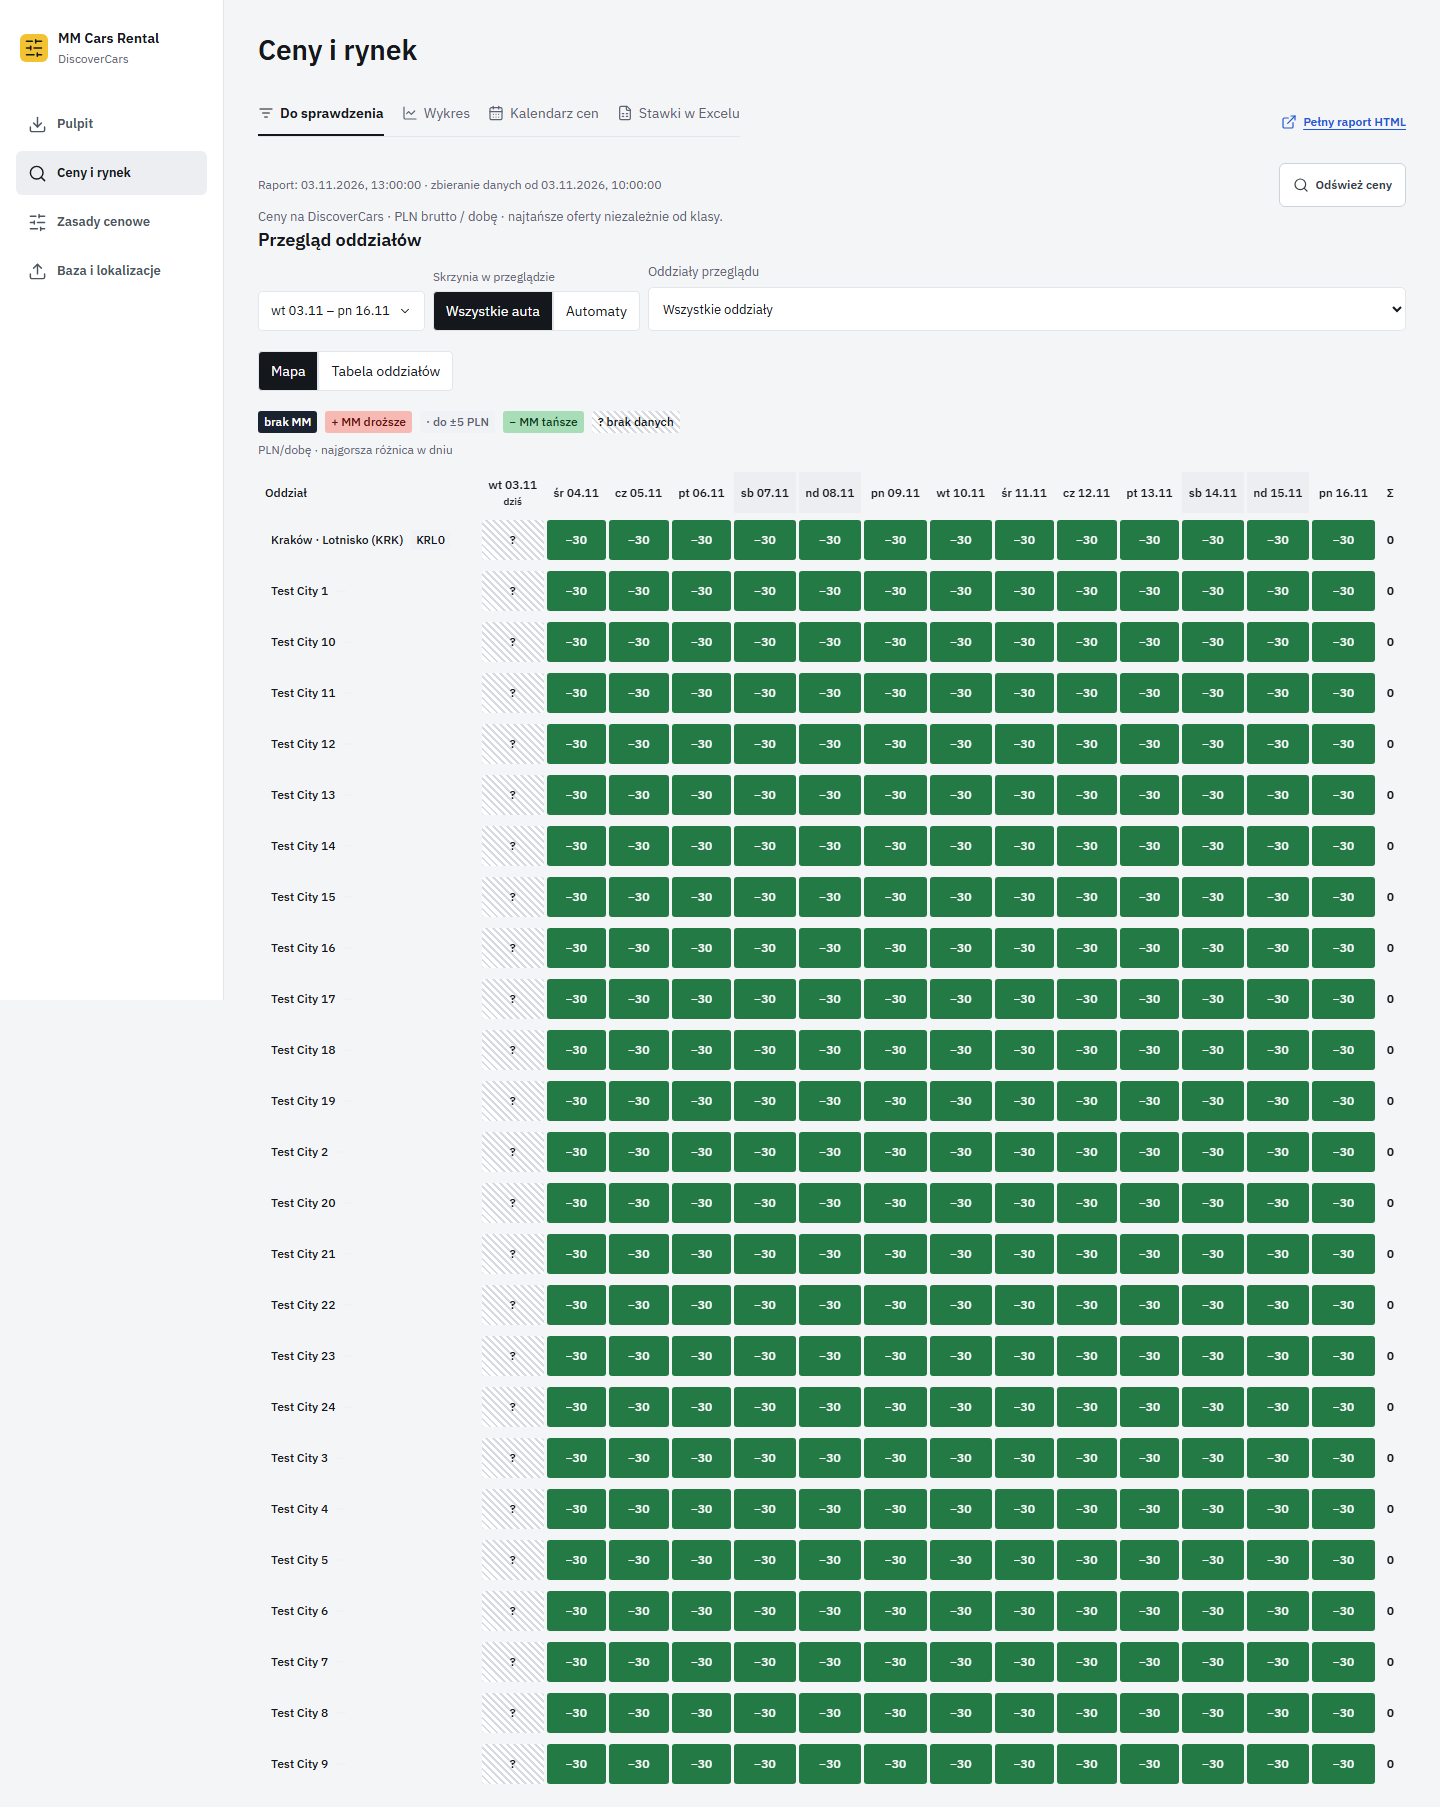
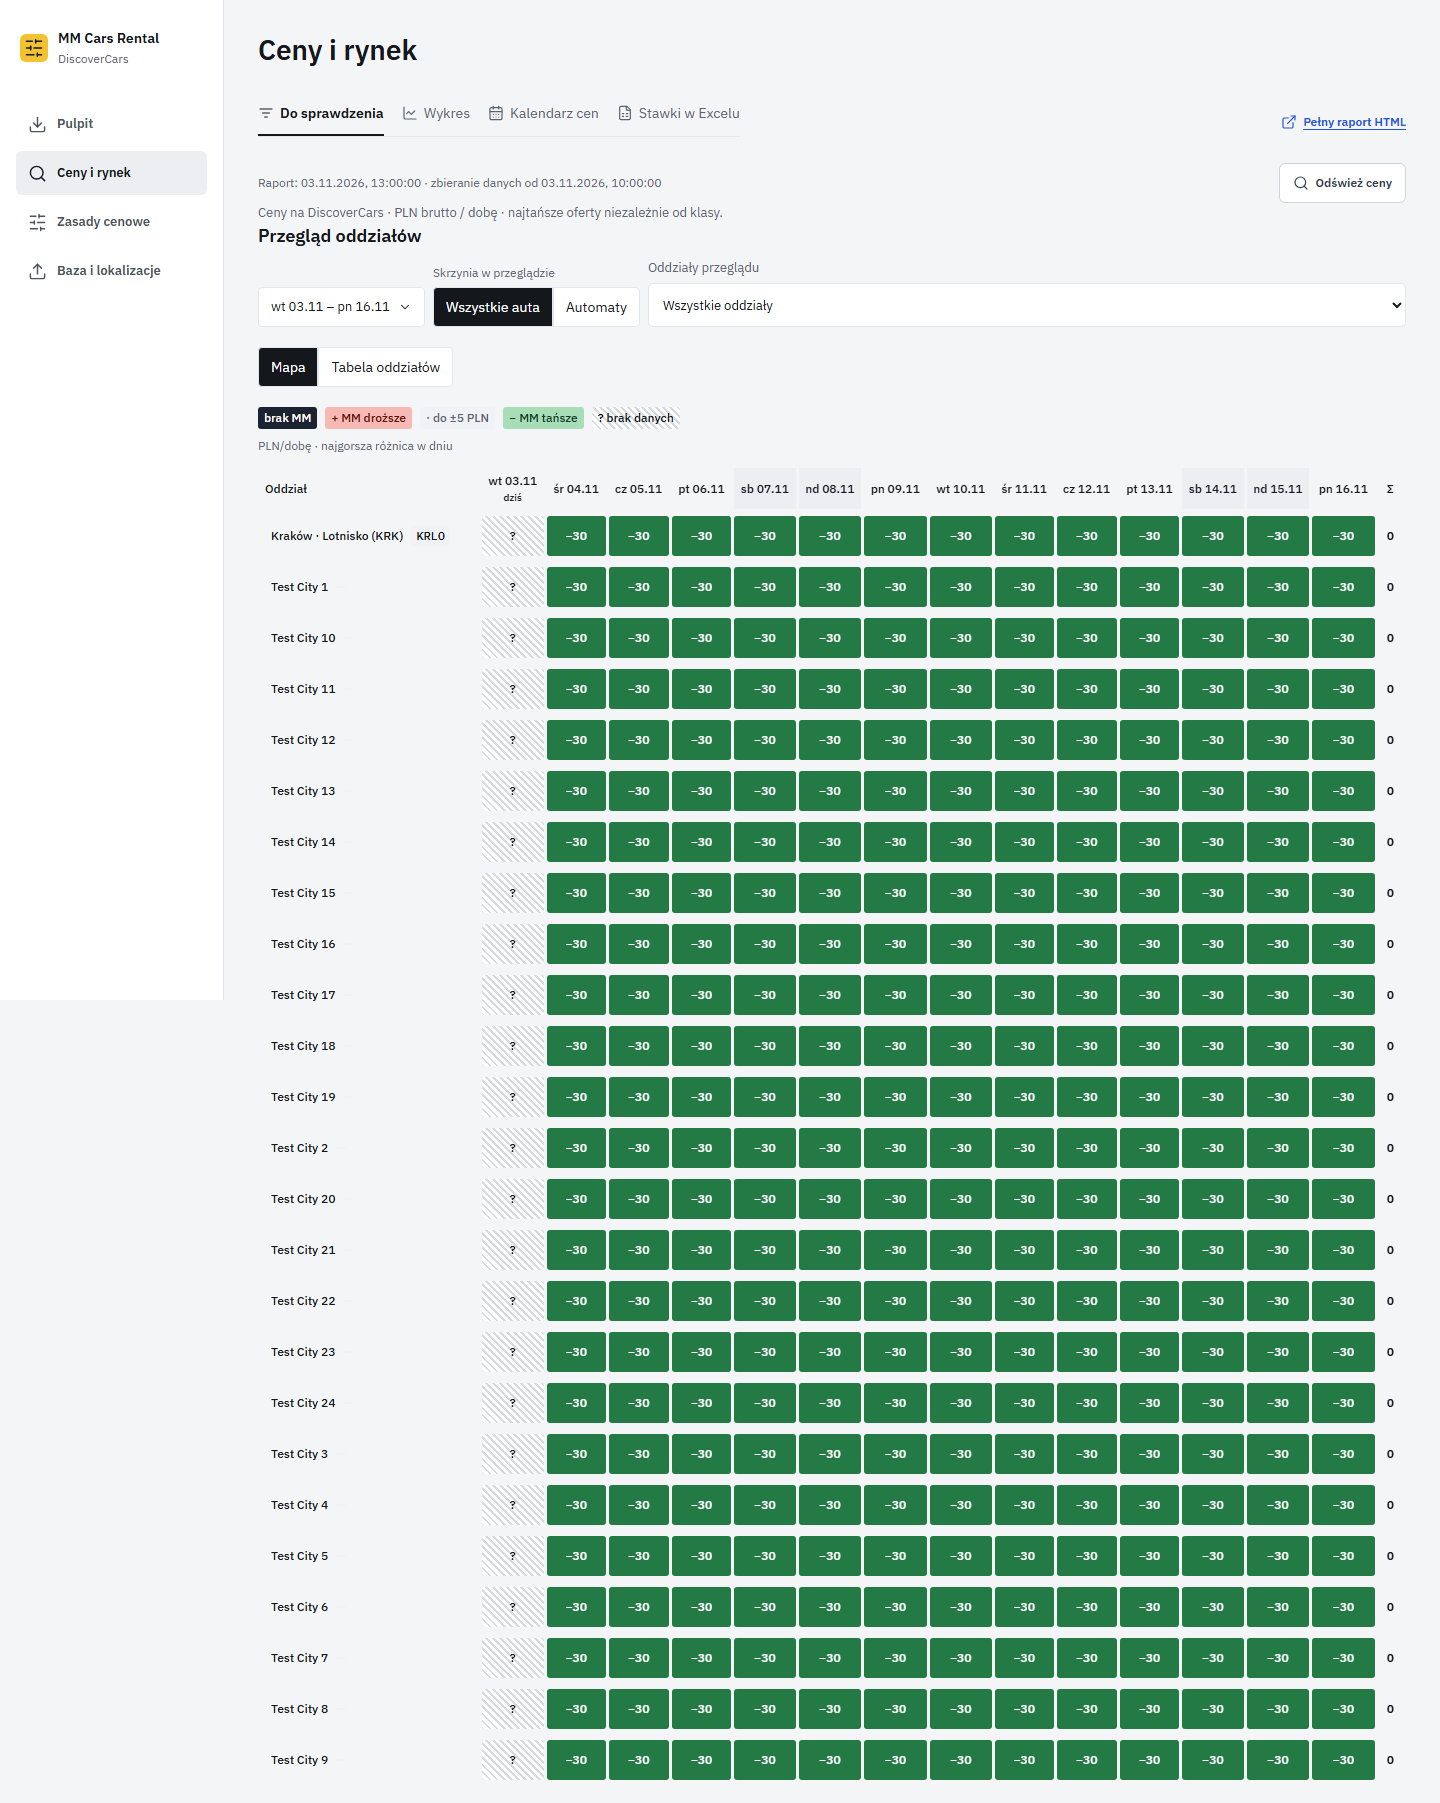
ui(stage 4): show calendar gaps in PLN and multi-select rental lengths

diff --git a/rules-panel/src/MarketWorkspace.jsx b/rules-panel/src/MarketWorkspace.jsx
@@ -1,5 +1,7 @@
 import React, { useCallback, useEffect, useMemo, useRef, useState } from 'react';
 import { CalendarDays, ChartLine, ChevronLeft, ChevronRight, ExternalLink, FileSpreadsheet, ListFilter, Search } from 'lucide-react';
+import {PriceCalendar,DurationChips} from './PriceCalendar.jsx';
+import {monthLabel} from './visual-format.mjs';
 import {ViewTabs} from './ViewTabs.jsx';
 import { MarketDetail } from './MarketDetail.jsx';
 import { AttentionView } from './AttentionView.jsx';
@@ -64,16 +66,16 @@ export function MarketWorkspace({model,workspace,service,calendar,market,request
       <div hidden={view!=='attention'||!data}><AttentionView onRules={onRules} onExcel={openExcel} calendar={calendar} model={model} workspace={workspace} service={service} key={request?.id??"default"} request={request} data={data} onSelect={selectRow} selected={selected}/></div>
       {data&&<>
         <div hidden={view==='attention'} className="market-filters chart-filters"><label>Oddziały<select value={kind} onChange={e=>{setKind(e.target.value);setLocation('*');}}><option value="airport">Lotniska</option><option value="all">Wszystkie oddziały</option><option value="branch">Poza lotniskami</option></select></label><label>Lokalizacja rynku<select value={location} onChange={e=>setLocation(e.target.value)}><option value="*">Wszystkie lokalizacje</option>{locations.map(l=><option key={l} value={l}>{locationLabel(l)}</option>)}</select></label><label>Skrzynia<select value={transmission} onChange={e=>setTransmission(e.target.value)}><option value="all">Wszystkie auta</option><option value="automatic">Tylko automaty</option></select></label>
-        <details className="duration-select"><summary>Długość najmu: {durations.length?durations.join(', '):'brak'} dni</summary><fieldset><legend>Długości najmu</legend>{Array.from({length:13},(_,i)=>i+2).map(d=><label key={d}><input type="checkbox" checked={durations.includes(d)} onChange={e=>setDurations(old=>e.target.checked?[...old,d].sort((a,b)=>a-b):old.filter(n=>n!==d))}/>{d} dni</label>)}</fieldset></details>
+        {view==='calendar'?<DurationChips values={durations} onChange={setDurations}/>:<details className="duration-select"><summary>Długość najmu: {durations.length?durations.join(', '):'brak'} dni</summary><fieldset><legend>Długości najmu</legend>{Array.from({length:13},(_,i)=>i+2).map(d=><label key={d}><input type="checkbox" checked={durations.includes(d)} onChange={e=>setDurations(old=>e.target.checked?[...old,d].sort((a,b)=>a-b):old.filter(n=>n!==d))}/>{d} dni</label>)}</fieldset></details>}
         <label>Start od<input type="date" value={from} onChange={e=>{setFrom(e.target.value);if(validDate(e.target.value))setMonth(e.target.value.slice(0,7));}}/></label><label>Start do<input type="date" value={to} onChange={e=>setTo(e.target.value)}/></label></div>
         <div hidden={view==='attention'} className="market-range" role="group" aria-label="Zakres dat">{[7,14,30,0].map(n=><button key={n} className="text-button" onClick={()=>preset(n)}>{n?`${n} dni`:'Cały raport'}</button>)}</div>
         {!rangeValid&&<p className="alert error">Wybierz prawidłowy zakres dat, nie dłuższy niż rok.</p>}
         {!durations.length&&<p className="alert">Wybierz co najmniej jedną długość najmu.</p>}
         <div hidden={view==='attention'} className="market-counts"><span><strong>{rows.length}</strong> sprawdzeń w filtrze</span><span>Top1: <strong>{rows.filter(r=>r.rank===1&&r.marketConfirmed).length}/{rows.filter(r=>r.rankLabel&&r.marketConfirmed).length}</strong> ocenionych</span><span>Brak MM: <strong>{rows.filter(r=>r.marketConfirmed&&r.mm===null).length}</strong></span><span>Bez potwierdzonych danych: <strong>{rows.filter(r=>!r.marketConfirmed).length}</strong></span></div>
         {(view==='chart'||view==='calendar')&&location==='*'?<p>Wybierz jedną lokalizację. Zestawienie wszystkich lokalizacji jest w „Do sprawdzenia”.</p>:view==='chart'?durations.map(duration=><PriceChart key={duration} rows={series(duration)} scale={scale} duration={duration} onSelect={row=>selectRow(row,series(duration))}/>):view==='calendar'?<>
-          <div className="calendar-month"><button className="icon-button" aria-label="Poprzedni miesiąc cen" title="Poprzedni miesiąc" onClick={()=>shiftMonth(-1)}><ChevronLeft size={18}/></button><label>Miesiąc cen<input type="month" value={month} onChange={e=>changeMonth(e.target.value)}/></label><button className="icon-button" aria-label="Następny miesiąc cen" title="Następny miesiąc" onClick={()=>shiftMonth(1)}><ChevronRight size={18}/></button></div>
-          {durations.map(duration=><PriceCalendar key={duration} month={month} rows={series(duration)} duration={duration} events={calendar.items} zones={applicableZones} onSelect={setSelected}/>)}
-          <p className="evidence-note">Cena MM: PLN/dobę, zaokrąglona. Różnica % względem najtańszego konkurenta. Zielony: MM tańsze. Czerwony: MM droższe. Kreska: brak danych. Puste dni: poza filtrem dat.</p>
+          <div className="calendar-month"><button className="icon-button" aria-label="Poprzedni miesiąc cen" title="Poprzedni miesiąc" onClick={()=>shiftMonth(-1)}><ChevronLeft size={18}/></button><strong>{monthLabel(month)}</strong><button className="icon-button" aria-label="Następny miesiąc cen" title="Następny miesiąc" onClick={()=>shiftMonth(1)}><ChevronRight size={18}/></button></div>
+          {durations.map(duration=><PriceCalendar key={duration} month={month} rows={series(duration)} duration={duration} events={calendar.items} zones={applicableZones} reportDates={data.report.startDates} onSelect={row=>selectRow(row,series(duration))}/>)}
+          <p className="evidence-note">PLN/dobę, ceny na siatce zaokrąglone. + MM droższe · − MM tańsze · szary: różnica do ±5 PLN · brak MM: potwierdzony brak oferty · ?: brak danych. Dokładne kwoty w szczegółach.</p>
           {calendar.error&&<p className="freshness-warning">Nie potwierdzono oznaczeń wydarzeń. {calendar.error}</p>}
           <details className="technical-details"><summary>Wydarzenia i święta</summary><CalendarEvents calendar={calendar} model={model}/></details>
         </>:null}
@@ -102,7 +104,4 @@ function PriceChart({rows,duration,scale,onSelect}) {
   </section>;
 }
 
-function PriceCalendar({month,rows,duration,events,zones,onSelect}) {
-  const days=monthDates(month);const indexed=new Map(rows.map(row=>[row.date,row]));const offset=days.length?(new Date(days[0]+'T12:00:00Z').getUTCDay()+6)%7:0;
-  return <section className="market-calendar"><h2>{duration} dni</h2><div className="calendar-week">{['Pon','Wt','Śr','Czw','Pt','Sob','Nd'].map(day=><span key={day}>{day}</span>)}</div><div className="market-calendar-grid">{Array.from({length:offset},(_,i)=><span key={i}/>)}{days.map(day=>{const row=indexed.get(day);const comparable=row?.mm!=null&&row?.competitor!=null&&row.marketConfirmed;const percent=comparable?(row.mm/row.competitor-1)*100:null;const entries=eventsForDay(events,day,zones);return <button key={day} disabled={!row} title={!row?'Poza filtrem dat':undefined} className={`market-day ${!row?'out-of-range':percent===null?'unknown':percent>0?'above':percent<0?'below':'equal'}`} aria-label={`${dayLabel(day)}, ${!row?'poza filtrem dat':`MM ${money(row.mm)}, ${percent===null?'brak porównania':`${Math.round(percent)}% względem konkurencji`}`}`} onClick={()=>onSelect(row)}><span>{Number(day.slice(8))}{entries.length>0&&<CalendarDays className="event-day-marker" size={12} aria-label={entries.map(e=>e.title).join(', ')}/>}</span>{row&&<><strong>{shortMoney(row.mm)}</strong><small>{percent===null?'—':`${percent>0?'+':''}${Math.round(percent)}%`}</small></>}</button>;})}</div></section>;
-}
+

diff --git a/rules-panel/src/redesign.css b/rules-panel/src/redesign.css
@@ -38,3 +38,7 @@ body{background:var(--bg)}.brand-symbol{width:28px;height:28px;background:var(--
 .band-matrix .band-cell strong{font-size:14px;overflow-wrap:anywhere}.band-matrix .band-cell[aria-expanded=true]{background:#eaf0fd;outline:2px solid var(--ink);outline-offset:-2px}.band-unavailable{color:var(--muted);font-size:10px}.band-cell .mobile-band{display:none}
 .band-detail[open]{width:min(580px,calc(100vw - 24px));max-width:calc(100vw - 24px);gap:12px}.band-key-rates{display:grid;grid-template-columns:repeat(3,minmax(0,1fr));gap:10px;padding:14px 0;border-bottom:1px solid var(--line)}.band-key-rates dt{font-size:12px;color:var(--muted)}.band-key-rates dd{margin:5px 0 0;font-weight:600;font-size:18px;overflow-wrap:anywhere}.band-key-rates small{font-size:12px}.band-detail .band-scenarios{padding:0;background:none;border:0}.band-detail table{width:100%;table-layout:fixed;font-size:12px}.band-detail td,.band-detail th{padding:8px 3px;overflow-wrap:anywhere;text-align:right}.band-detail td:first-child,.band-detail th:first-child{text-align:left}.band-detail td small{display:block;font-size:10px;color:var(--muted)}.band-detail .price-badge{font-size:11px;padding:2px 3px}.band-detail .inline-decision{border:0}.band-detail .event-actions{display:flex;flex-wrap:wrap;gap:8px}
 @media(max-width:760px){.branch-header{display:block}.band-filters{display:flex}.band-filters .range-picker{width:100%}.band-filters .range-picker>summary{justify-content:space-between}.band-matrix thead{display:table-header-group}.band-matrix tbody{display:table-row-group}.band-matrix .band-date{display:table-row}.band-matrix .band-date>th,.band-matrix .band-date>td{display:table-cell;padding:1px}.band-matrix th{font-size:10px}.band-matrix .band-cell{display:flex;flex-direction:column;justify-content:center;padding:4px 1px;gap:3px;min-height:60px}.band-matrix .band-cell strong{font-size:11px}.band-matrix .price-badge{font-size:10px;padding:2px}.band-detail[open]{width:100%;max-width:100%;padding:16px}.band-key-rates dd{font-size:15px}.band-detail table{font-size:11px}.band-detail .text-button{font-size:11px;padding:3px}.band-detail .price-badge{white-space:normal}}
+.duration-chips{display:flex;align-items:center;flex-wrap:wrap;gap:4px;align-self:end}.duration-chips button,.duration-chips summary{min-width:40px;min-height:40px;display:inline-flex;align-items:center;justify-content:center;font:inherit;font-size:13px;background:white;border:1px solid var(--line);border-radius:4px;padding:5px 8px;cursor:pointer}.duration-chips button[aria-pressed=true]{background:var(--ink);color:white}.duration-chips details{position:relative}.duration-chips details>div{position:absolute;z-index:6;top:100%;left:0;width:180px;display:flex;flex-wrap:wrap;gap:4px;padding:8px;background:white;border:1px solid var(--line)}
+.calendar-section-heading{display:flex;gap:12px;flex-wrap:wrap;align-items:center;justify-content:space-between;margin:12px 0}.calendar-section-heading>span{color:var(--muted);font-size:12px}
+.market-calendar-grid .market-day{min-height:106px;padding:8px;border:1px solid transparent;border-radius:4px;display:flex;flex-direction:column;align-items:start;gap:4px;text-align:left}.market-calendar-grid .market-day strong{font-size:18px;font-weight:600}.market-calendar-grid .market-day small{font-size:12px;color:inherit}.market-calendar-grid .market-day>span{font-size:12px;display:flex;justify-content:space-between;width:100%}.market-calendar-grid .outside-report{border:1px dashed var(--line);background:transparent;color:var(--muted);opacity:1}.market-calendar-grid .weekend>span{font-weight:600;text-decoration:underline;text-underline-offset:3px}.market-calendar-grid .today{outline:2px solid var(--ink);outline-offset:-2px}
+@media(max-width:760px){.market-calendar-grid{gap:3px}.market-calendar-grid .market-day{min-height:95px;padding:4px 2px;gap:3px}.market-calendar-grid .market-day strong{font-size:16px}.market-calendar-grid .market-day small{font-size:10px;overflow-wrap:anywhere}.market-calendar-grid .market-day>span{font-size:10px}.calendar-section-heading{display:block}.duration-chips details>div{left:auto;right:0}}

diff --git a/rules-panel/src/PriceCalendar.jsx b/rules-panel/src/PriceCalendar.jsx
@@ -1,0 +1,27 @@
+import React from 'react';
+import {CalendarDays} from 'lucide-react';
+import {monthDates,eventsForDay,money,priceTone,warsawToday} from './market-model.mjs';
+import {weekdayDate,isWeekend,signedPrice,monthLabel} from './visual-format.mjs';
+import {calendarSummary} from './attention-map.mjs';
+
+export function DurationChips({values,onChange}) {
+ const chip=d=><button key={d} type="button" aria-pressed={values.includes(d)} onClick={()=>onChange(values.includes(d)?values.filter(n=>n!==d):[...values,d].sort((a,b)=>a-b))}>{d} d</button>;
+ return <div className="duration-chips" role="group" aria-label="Długości najmu">{[2,3,4,5,7,10,14].map(chip)}<details><summary>więcej</summary><div>{[6,8,9,11,12,13].map(chip)}</div></details></div>;
+}
+const shortMoney=value=>Number.isFinite(value)?value.toLocaleString('pl-PL',{maximumFractionDigits:0,notation:value>=10000?'compact':'standard'}):'—';
+export function PriceCalendar({month,rows,duration,events,zones,onSelect,reportDates}) {
+ const days=monthDates(month),indexed=new Map(rows.map(row=>[row.date,row]));
+ const offset=days.length?(new Date(days[0]+'T12:00:00Z').getUTCDay()+6)%7:0;
+ const summary=calendarSummary(rows.filter(row=>row.date.startsWith(month)));
+ return <section className="market-calendar"><header className="calendar-section-heading"><h2>{monthLabel(month)} · {duration} dni</h2><span>MM Top1: {summary.top1} z {summary.comparable} porównanych dni · średnio {summary.average===null?'brak porównania':signedPrice(summary.average)+' PLN/d'}</span></header>
+  <div className="calendar-week">{['Pon','Wt','Śr','Czw','Pt','Sob','Nd'].map(day=><span key={day}>{day}</span>)}</div>
+  <div className="market-calendar-grid">{Array.from({length:offset},(_,i)=><span key={i}/>)}{days.map(day=>{
+   const row=indexed.get(day),outside=!reportDates.includes(day),enabled=Boolean(row&&!row.missingScenario);
+   const missing=row?.marketConfirmed&&row.mm===null;
+   const tone=missing?'missing':row?.marketConfirmed&&Number.isFinite(row.gap)?priceTone(-row.gap):'nodata';
+   const entries=eventsForDay(events,day,zones);
+   const description=outside?'poza raportem':!row?'poza filtrem dat':!row.marketConfirmed?'brak potwierdzonych danych':missing?`brak MM, konkurent ${money(row.competitor)} PLN/d`:`MM ${money(row.mm)}, konkurent ${money(row.competitor)}, różnica ${signedPrice(-row.gap)} PLN/d`;
+   return <button key={day} disabled={!enabled} className={`market-day tone-${tone} ${outside||!row?'outside-report':''} ${isWeekend(day)?'weekend':''} ${day===warsawToday()?'today':''}`} aria-label={`${weekdayDate(day)}, ${description}`} onClick={()=>onSelect(row)}><span>{Number(day.slice(8))}{entries.length>0&&<CalendarDays className="event-day-marker" size={12} aria-label={entries.map(e=>e.title).join(', ')}/>}</span>{outside||!row?<small>{outside?'poza raportem':'poza filtrem'}</small>:<><strong>{missing?'brak MM':row.marketConfirmed?shortMoney(row.mm):'?'}</strong><small>konk. {row.marketConfirmed?shortMoney(row.competitor):'?'}</small><small>{Number.isFinite(row.gap)&&row.marketConfirmed?signedPrice(-row.gap,0):'?'}</small></>}</button>;
+  })}</div>
+ </section>;
+}
